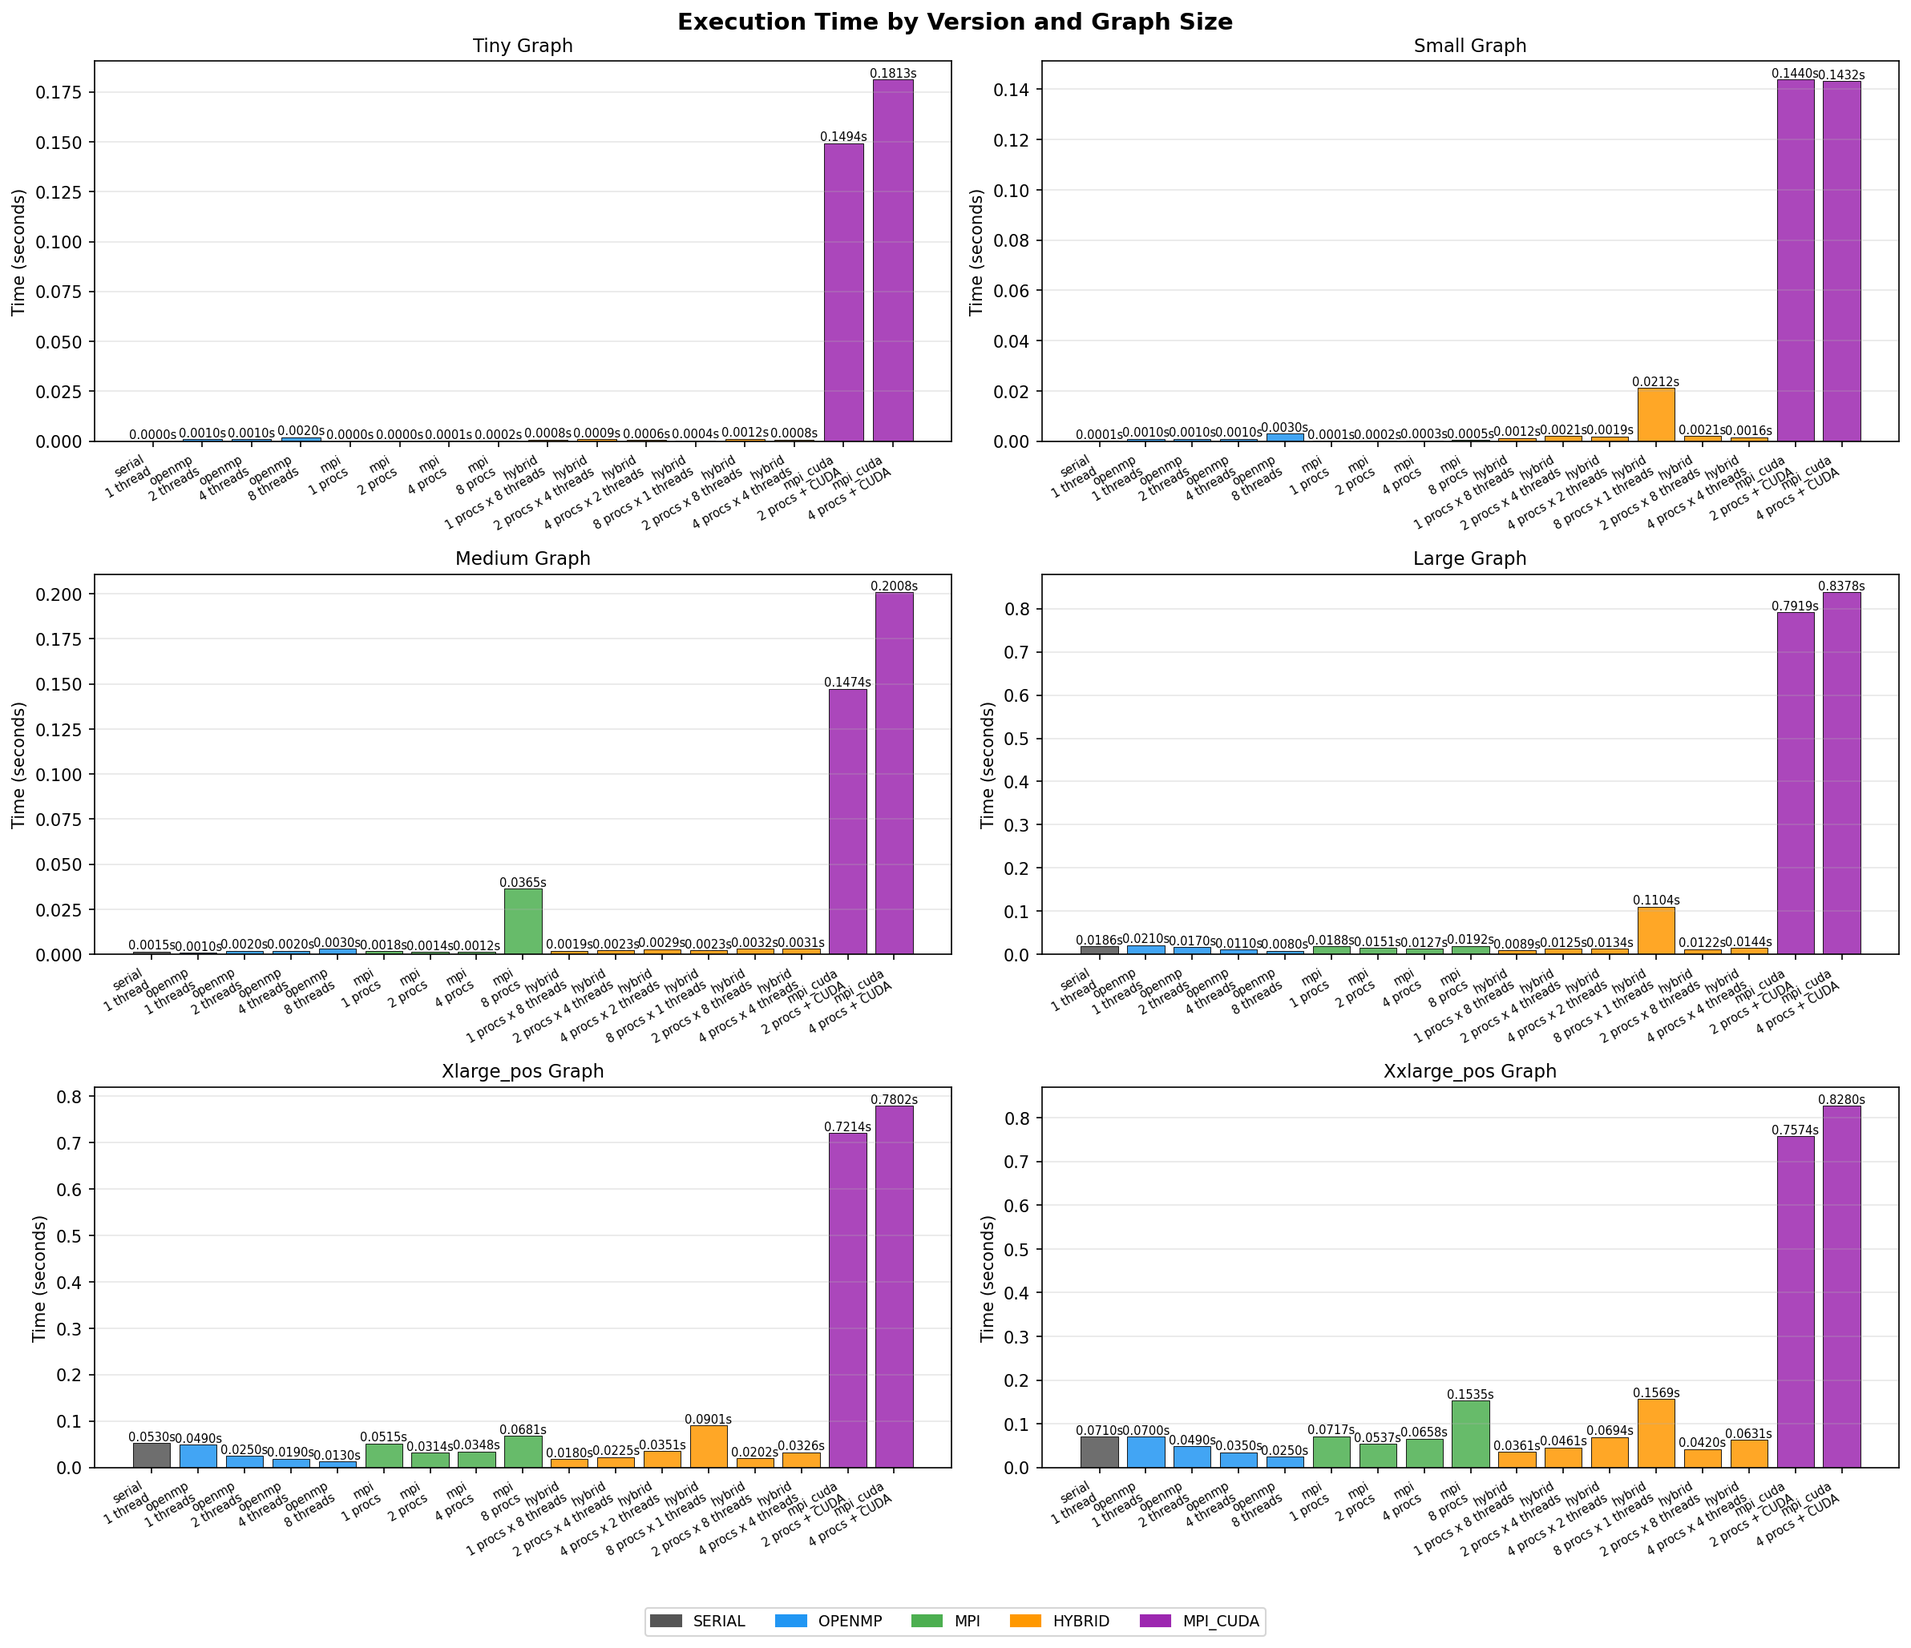
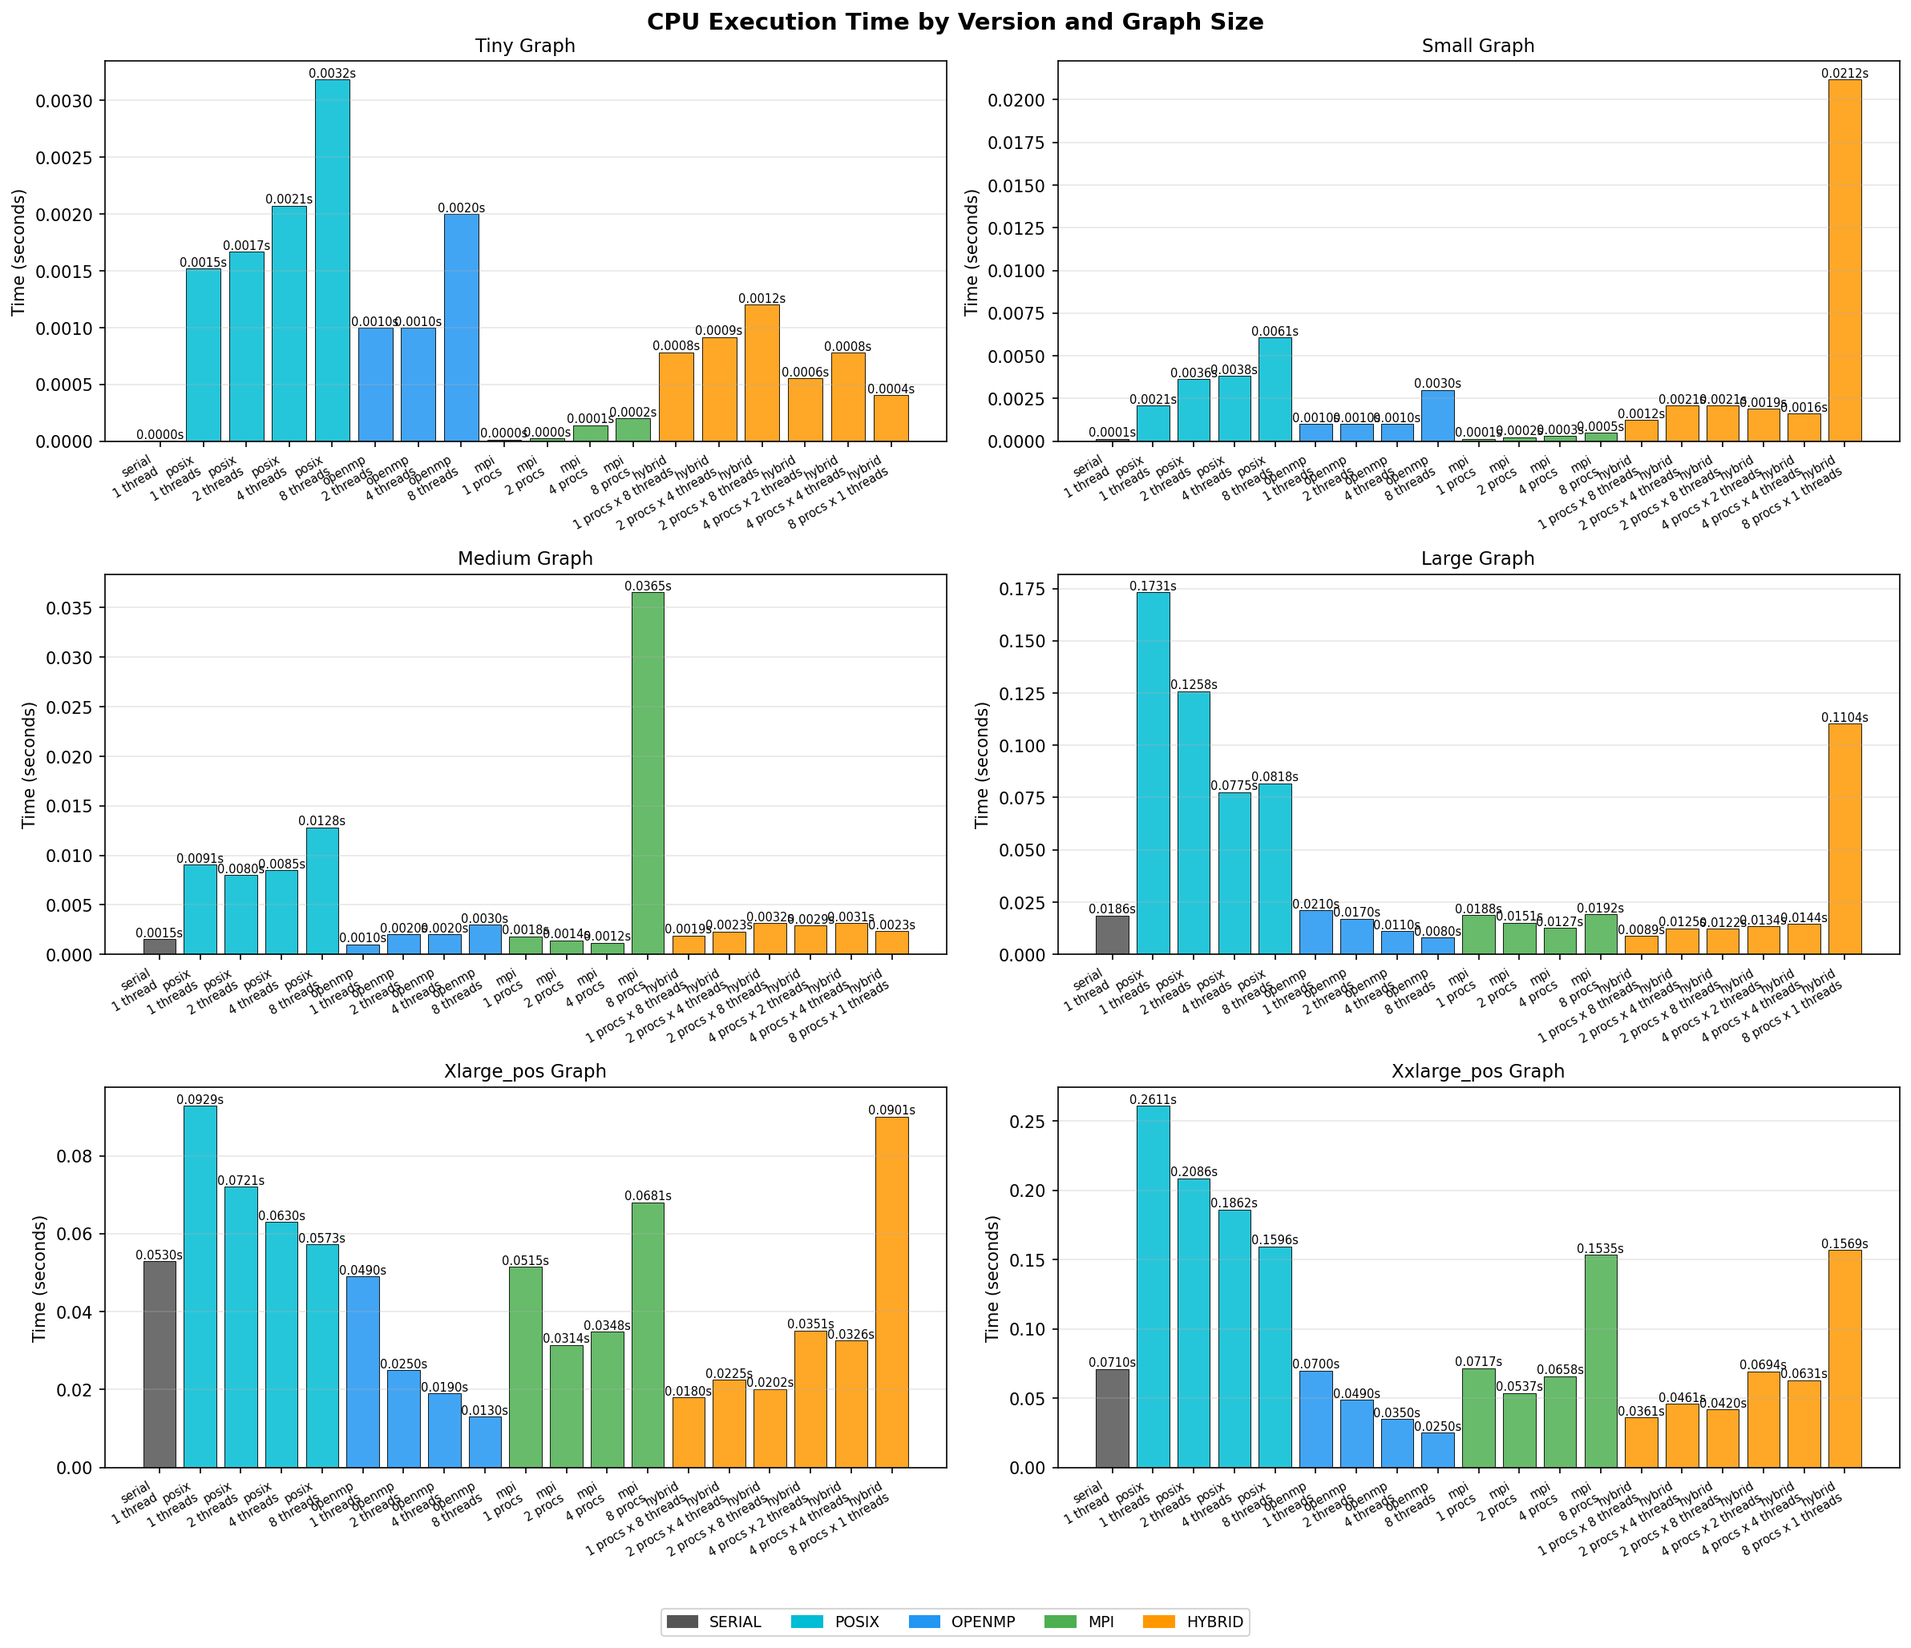
Posix update

diff --git a/src/posix/bellman_ford_posix.c b/src/posix/bellman_ford_posix.c
@@ -147,7 +147,7 @@ int bellman_ford_posix(Graph *graph, int source, int *dist, int num_threads) {
     printf("Running Bellman-Ford POSIX pthreads with %d threads...\n", num_threads);
     printf("  %d vertices, %d edges, up to %d iterations\n", V, E, V - 1);
 
-    int early_stop_iter = V - 1;
+    int stopped_early = 0;
 
     for (int iter = 0; iter < V - 1; iter++) {
         memcpy(next, current, V * sizeof(int));
@@ -167,7 +167,7 @@ int bellman_ford_posix(Graph *graph, int source, int *dist, int num_threads) {
         }
 
         if (!updated) {
-            early_stop_iter = iter + 1;
+            stopped_early = 1;
             printf("  Early termination at iteration %d (no changes)\n", iter + 1);
             break;
         }
@@ -177,7 +177,7 @@ int bellman_ford_posix(Graph *graph, int source, int *dist, int num_threads) {
         next = tmp;
     }
 
-    if (early_stop_iter == V - 1) {
+    if (!stopped_early) {
         printf("  Completed all %d iterations\n", V - 1);
     }
 

diff --git a/docs/REPORT.md b/docs/REPORT.md
@@ -2,7 +2,7 @@
 
 **Course:** High-Performance Computing  
 **Date:** 22 May 2026  
-**Implementations compared:** Serial, OpenMP, MPI, Hybrid MPI+OpenMP, MPI+CUDA  
+**Implementations compared:** Serial, POSIX pthreads, OpenMP, MPI, Hybrid MPI+OpenMP, MPI+CUDA  
 
 ---
 
@@ -23,6 +23,7 @@ Final implementations tested:
 | Version | Programming model | Parallelism used |
 |---|---|---|
 | Serial | Plain C | Baseline |
+| POSIX pthreads | Shared memory | Manual CPU threads using pthreads |
 | OpenMP | Shared memory | CPU threads on one machine |
 | MPI | Distributed memory | CPU processes with message passing |
 | Hybrid | MPI + OpenMP | MPI processes, each using OpenMP threads |
@@ -42,7 +43,13 @@ Each configuration was run 3 times, and the minimum execution time was reported.
 
 The serial implementation scans all edges repeatedly and stops early when a full pass produces no updates. It is the correctness and speedup baseline.
 
-### 2.2 OpenMP
+### 2.2 POSIX pthreads
+
+The POSIX version was added as an extra shared-memory CPU comparison because it was straightforward to implement with the existing edge-list structure. It manually creates pthread workers and splits the edge list across threads. To keep correctness clear, it uses double-buffered distance arrays and per-vertex mutexes for updates.
+
+Tested thread counts: `1`, `2`, `4`, and `8`.
+
+### 2.3 OpenMP
 
 OpenMP parallelizes the edge-relaxation loop:
 
@@ -55,7 +62,7 @@ for (int e = 0; e < graph->E; e++) {
 
 Tested thread counts: `1`, `2`, `4`, and `8`.
 
-### 2.3 MPI
+### 2.4 MPI
 
 MPI divides the edge array across processes. After each local relaxation pass, all processes combine distances with:
 
@@ -65,7 +72,7 @@ MPI_Allreduce(dist, new_dist, V, MPI_INT, MPI_MIN, MPI_COMM_WORLD);
 
 Tested process counts: `1`, `2`, `4`, and `8`.
 
-### 2.4 Hybrid MPI+OpenMP
+### 2.5 Hybrid MPI+OpenMP
 
 Hybrid combines the two CPU models:
 
@@ -86,7 +93,7 @@ Tested hybrid configurations:
 
 The 16-worker cases oversubscribe the 8-logical-processor laptop, but they were tested to check whether more hybrid workers helped.
 
-### 2.5 MPI+CUDA
+### 2.6 MPI+CUDA
 
 MPI+CUDA was added for the final run because CUDA should be used to improve the MPI-based implementation rather than run alone.
 
@@ -141,8 +148,10 @@ The graph generator uses Johnson-style vertex potentials so mixed-weight graphs 
 Raw results and charts:
 
 - `results/benchmark_results.csv`
-- `results/charts/execution_time.png`
-- `results/charts/speedup.png`
+- `results/charts/execution_time.png` - CPU-only chart, so MPI+CUDA does not distort the scale
+- `results/charts/speedup.png` - CPU-only speedup chart
+- `results/charts/mpi_cuda_execution_time.png` - MPI+CUDA timing chart
+- `results/charts/mpi_cuda_speedup.png` - MPI+CUDA speedup chart
 
 ---
 
@@ -155,6 +164,10 @@ All times are in seconds. Speedup is relative to serial on the same dataset.
 | Version | Config | Time | Speedup |
 |---|---|---:|---:|
 | Serial | 1 thread | 0.000001 | 1.00x |
+| POSIX pthreads | 1 thread | 0.001521 | 0.00x |
+| POSIX pthreads | 2 threads | 0.001667 | 0.00x |
+| POSIX pthreads | 4 threads | 0.002074 | 0.00x |
+| POSIX pthreads | 8 threads | 0.003187 | 0.00x |
 | OpenMP | 1 thread | N/A | N/A |
 | OpenMP | 2 threads | 0.001000 | 0.00x |
 | OpenMP | 4 threads | 0.001000 | 0.00x |
@@ -177,6 +190,10 @@ All times are in seconds. Speedup is relative to serial on the same dataset.
 | Version | Config | Time | Speedup |
 |---|---|---:|---:|
 | Serial | 1 thread | 0.000133 | 1.00x |
+| POSIX pthreads | 1 thread | 0.002090 | 0.06x |
+| POSIX pthreads | 2 threads | 0.003640 | 0.04x |
+| POSIX pthreads | 4 threads | 0.003818 | 0.03x |
+| POSIX pthreads | 8 threads | 0.006087 | 0.02x |
 | OpenMP | 1 thread | 0.001000 | 0.13x |
 | OpenMP | 2 threads | 0.001000 | 0.13x |
 | OpenMP | 4 threads | 0.001000 | 0.13x |
@@ -199,6 +216,10 @@ All times are in seconds. Speedup is relative to serial on the same dataset.
 | Version | Config | Time | Speedup |
 |---|---|---:|---:|
 | Serial | 1 thread | 0.001542 | 1.00x |
+| POSIX pthreads | 1 thread | 0.009067 | 0.17x |
+| POSIX pthreads | 2 threads | 0.008018 | 0.19x |
+| POSIX pthreads | 4 threads | 0.008474 | 0.18x |
+| POSIX pthreads | 8 threads | 0.012822 | 0.12x |
 | OpenMP | 1 thread | 0.001000 | 1.54x |
 | OpenMP | 2 threads | 0.002000 | 0.77x |
 | OpenMP | 4 threads | 0.002000 | 0.77x |
@@ -221,6 +242,10 @@ All times are in seconds. Speedup is relative to serial on the same dataset.
 | Version | Config | Time | Speedup |
 |---|---|---:|---:|
 | Serial | 1 thread | 0.018609 | 1.00x |
+| POSIX pthreads | 1 thread | 0.173121 | 0.11x |
+| POSIX pthreads | 2 threads | 0.125835 | 0.15x |
+| POSIX pthreads | 4 threads | 0.077531 | 0.24x |
+| POSIX pthreads | 8 threads | 0.081755 | 0.23x |
 | OpenMP | 1 thread | 0.021000 | 0.89x |
 | OpenMP | 2 threads | 0.017000 | 1.09x |
 | OpenMP | 4 threads | 0.011000 | 1.69x |
@@ -243,6 +268,10 @@ All times are in seconds. Speedup is relative to serial on the same dataset.
 | Version | Config | Time | Speedup |
 |---|---|---:|---:|
 | Serial | 1 thread | 0.052995 | 1.00x |
+| POSIX pthreads | 1 thread | 0.092870 | 0.57x |
+| POSIX pthreads | 2 threads | 0.072072 | 0.74x |
+| POSIX pthreads | 4 threads | 0.063038 | 0.84x |
+| POSIX pthreads | 8 threads | 0.057266 | 0.93x |
 | OpenMP | 1 thread | 0.049000 | 1.08x |
 | OpenMP | 2 threads | 0.025000 | 2.12x |
 | OpenMP | 4 threads | 0.019000 | 2.79x |
@@ -265,6 +294,10 @@ All times are in seconds. Speedup is relative to serial on the same dataset.
 | Version | Config | Time | Speedup |
 |---|---|---:|---:|
 | Serial | 1 thread | 0.071039 | 1.00x |
+| POSIX pthreads | 1 thread | 0.261119 | 0.27x |
+| POSIX pthreads | 2 threads | 0.208561 | 0.34x |
+| POSIX pthreads | 4 threads | 0.186160 | 0.38x |
+| POSIX pthreads | 8 threads | 0.159591 | 0.45x |
 | OpenMP | 1 thread | 0.070000 | 1.01x |
 | OpenMP | 2 threads | 0.049000 | 1.45x |
 | OpenMP | 4 threads | 0.035000 | 2.03x |
@@ -299,7 +332,19 @@ All times are in seconds. Speedup is relative to serial on the same dataset.
 
 The meaningful results are the large datasets. Tiny, small, and medium are heavily affected by timing granularity and framework overhead.
 
-### 6.2 OpenMP Scaling
+### 6.2 POSIX pthreads Scaling
+
+POSIX pthreads was correct on all datasets, but it did not beat the serial baseline. The best POSIX result was `0.93x` on `xlarge_pos` with 8 threads.
+
+| Dataset | 1 thread | 2 threads | 4 threads | 8 threads |
+|---|---:|---:|---:|---:|
+| large | 0.11x | 0.15x | 0.24x | 0.23x |
+| xlarge_pos | 0.57x | 0.74x | 0.84x | 0.93x |
+| xxlarge_pos | 0.27x | 0.34x | 0.38x | 0.45x |
+
+The pthreads implementation uses explicit thread creation and per-vertex mutexes. That makes it a valid shared-memory implementation, but the locking and manual thread-management overhead are higher than the OpenMP runtime on this machine.
+
+### 6.3 OpenMP Scaling
 
 OpenMP is the strongest model on this single machine:
 
@@ -311,7 +356,7 @@ OpenMP is the strongest model on this single machine:
 
 The best final result is **OpenMP 8 threads on `xlarge_pos`**, with **4.08x speedup**.
 
-### 6.3 MPI Scaling
+### 6.4 MPI Scaling
 
 MPI improves for larger datasets, but does not keep improving at 8 processes:
 
@@ -323,7 +368,7 @@ MPI improves for larger datasets, but does not keep improving at 8 processes:
 
 The main limitation is `MPI_Allreduce` on the full distance array after every iteration. On a single machine, the communication and synchronization overhead grows quickly as process count increases.
 
-### 6.4 Hybrid MPI+OpenMP
+### 6.5 Hybrid MPI+OpenMP
 
 Hybrid performs best when it uses fewer MPI processes and more OpenMP threads:
 
@@ -335,7 +380,7 @@ Hybrid performs best when it uses fewer MPI processes and more OpenMP threads:
 
 `1 proc x 8 threads` is the best hybrid layout because it avoids most MPI communication. MPI-heavy layouts are slower.
 
-### 6.5 MPI+CUDA Results
+### 6.6 MPI+CUDA Results
 
 | Dataset | 2 procs + CUDA | 4 procs + CUDA | Best MPI+CUDA |
 |---|---:|---:|---:|
@@ -353,25 +398,29 @@ MPI+CUDA was correct, but it did not improve performance on this hardware. The r
 
 Therefore the GPU work is dominated by GPU context overhead, memory copies, and MPI synchronization. MPI+CUDA is the correct direction for a multi-GPU system, but this laptop is not the correct hardware for it.
 
+Running on Google Colab may not fix MPI+CUDA by itself. Colab usually gives one GPU to one notebook, and it is not a normal multi-node MPI environment. A better Colab GPU can reduce CUDA kernel time, but the MPI+CUDA design still needs multi-GPU hardware and GPU-aware communication to show the expected benefit.
+
 ---
 
 ## 7. Key Findings
 
 1. **OpenMP 8 threads is the best final result.** It reaches `4.08x` on `xlarge_pos` and `2.84x` on `xxlarge_pos`.
 
-2. **MPI improves only up to 2 or 4 processes.** At 8 processes, `MPI_Allreduce` overhead dominates.
+2. **POSIX pthreads is correct but slower than OpenMP.** It is useful as a manual shared-memory comparison, but per-vertex locking makes it slower than the OpenMP implementation.
 
-3. **Hybrid works best with fewer MPI ranks.** `1 proc x 8 threads` is consistently the best hybrid configuration.
+3. **MPI improves only up to 2 or 4 processes.** At 8 processes, `MPI_Allreduce` overhead dominates.
 
-4. **MPI+CUDA was implemented and verified, but it did not improve performance on this single-GPU laptop.** Best MPI+CUDA speedup was only `0.09x`.
+4. **Hybrid works best with fewer MPI ranks.** `1 proc x 8 threads` is consistently the best hybrid configuration.
 
-5. **CUDA should improve performance only with the right hardware design.** A practical MPI+CUDA version needs multiple GPUs, preferably one GPU per MPI rank, and ideally GPU-aware MPI to avoid copying the distance array through host memory each iteration.
+5. **MPI+CUDA was implemented and verified, but it did not improve performance on this single-GPU laptop.** Best MPI+CUDA speedup was only `0.09x`.
+
+6. **CUDA should improve performance only with the right hardware design.** A practical MPI+CUDA version needs multiple GPUs, preferably one GPU per MPI rank, and ideally GPU-aware MPI to avoid copying the distance array through host memory each iteration.
 
 ---
 
 ## 8. Conclusion
 
-The project successfully implemented and benchmarked Serial, OpenMP, MPI, Hybrid MPI+OpenMP, and MPI+CUDA versions of Bellman-Ford. Standalone CUDA was removed from the final comparison, and CUDA was tested only as part of MPI+CUDA.
+The project successfully implemented and benchmarked Serial, POSIX pthreads, OpenMP, MPI, Hybrid MPI+OpenMP, and MPI+CUDA versions of Bellman-Ford. Standalone CUDA was removed from the final comparison, and CUDA was tested only as part of MPI+CUDA.
 
 The best measured implementation on this machine is **OpenMP with 8 threads**, with a peak speedup of **4.08x** on `xlarge_pos`. MPI and Hybrid show useful speedups, but only when MPI communication is limited. MPI+CUDA is correct but slower on this single-GPU laptop because all MPI ranks share one GPU and must copy distances between GPU and CPU for every `MPI_Allreduce`.
 
@@ -379,6 +428,7 @@ Final recommendation:
 
 ```text
 Use OpenMP 8 threads as the best-performing result for this hardware.
+Use POSIX pthreads as a correct manual-threading comparison, not as the best result.
 Use MPI and Hybrid results to explain process-level communication overhead.
 Include MPI+CUDA as implemented and verified, but explain that it needs multi-GPU hardware to improve performance.
 ```
@@ -393,6 +443,7 @@ Include MPI+CUDA as implemented and verified, but explain that it needs multi-GP
 - Reduce MPI+CUDA synchronization frequency by checking early termination less often.
 - Profile the MPI+CUDA implementation with Nsight Systems to separate kernel time, memcpy time, and MPI time.
 - Test larger graphs where GPU kernel work is large enough to outweigh fixed GPU and MPI overhead.
+- Improve POSIX pthreads by reusing persistent worker threads across Bellman-Ford iterations instead of creating workers every iteration.
 
 ---
 

diff --git a/docs/HOW_TO_RUN.md b/docs/HOW_TO_RUN.md
@@ -15,7 +15,8 @@ You need the following tools installed:
 | GCC  | Compiling C code | `gcc --version` |
 | Make | Build system | `make --version` |
 | MPI  | MPI version | `mpicc --version` |
-| CUDA | GPU version | `nvcc --version` |
+| POSIX pthreads | Manual CPU threading | included in MSYS2 UCRT64 POSIX GCC |
+| CUDA | MPI+CUDA GPU support | `nvcc --version` |
 | Flask | Web UI | `python -m flask --version` |
 | psutil | UI resource monitor | `python -c "import psutil; print(psutil.__version__)"` |
 
@@ -88,6 +89,15 @@ gcc -O2 -Wall -fopenmp -o bin/bellman_ford_openmp.exe \
     -Isrc/common
 ```
 
+### Build POSIX pthreads version:
+```bash
+gcc -O2 -Wall -pthread -o bin/bellman_ford_posix.exe \
+    src/posix/bellman_ford_posix.c \
+    src/common/graph.c \
+    src/common/utils.c \
+    -Isrc/common
+```
+
 ### Build MPI version (when ready):
 ```bash
 mpicc -O2 -Wall -o bin/bellman_ford_mpi.exe \
@@ -106,10 +116,10 @@ mpicc -O2 -Wall -fopenmp -o bin/bellman_ford_hybrid.exe \
     -Isrc/common
 ```
 
-### Build CUDA version (when ready):
+### Build MPI+CUDA version:
 ```bash
-nvcc -O2 -o bin/bellman_ford_cuda.exe \
-    src/cuda/bellman_ford_cuda.cu \
+nvcc -O2 -o bin/bellman_ford_mpi_cuda.exe \
+    src/mpi_cuda/bellman_ford_mpi_cuda.cu \
     src/common/graph.c \
     src/common/utils.c \
     -Isrc/common
@@ -188,6 +198,14 @@ set OMP_NUM_THREADS=8 && ./bin/bellman_ford_openmp.exe graphs/large.txt 0
 
 ---
 
+### Run POSIX pthreads Version:
+```bash
+./bin/bellman_ford_posix.exe graphs/large.txt 0 4
+./bin/bellman_ford_posix.exe graphs/large.txt 0 8
+```
+
+---
+
 ### Run MPI Version:
 ```bash
 # -np = number of processes
@@ -207,11 +225,14 @@ mpirun -np 2 ./bin/bellman_ford_hybrid.exe graphs/large.txt 0
 
 ---
 
-### Run CUDA Version:
+### Run MPI+CUDA Version:
 ```bash
-# Just run it - it automatically uses your NVIDIA GPU
-./bin/bellman_ford_cuda.exe graphs/large.txt 0
+# CUDA is used only inside the MPI+CUDA implementation for the final project comparison.
+mpirun -np 2 ./bin/bellman_ford_mpi_cuda.exe graphs/large.txt 0
+mpirun -np 4 ./bin/bellman_ford_mpi_cuda.exe graphs/large.txt 0
 ```
+
+On a single-GPU laptop, MPI+CUDA can be slower than CPU OpenMP/Hybrid because all MPI ranks share one GPU and synchronize through MPI each iteration. It is expected to work better on a multi-GPU machine with one MPI rank per GPU.
 
 ---
 
